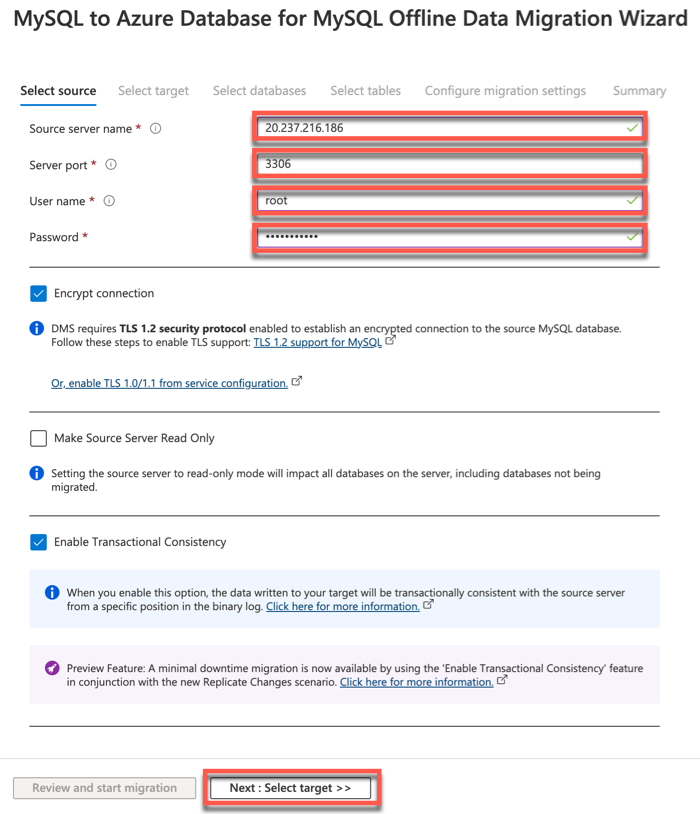
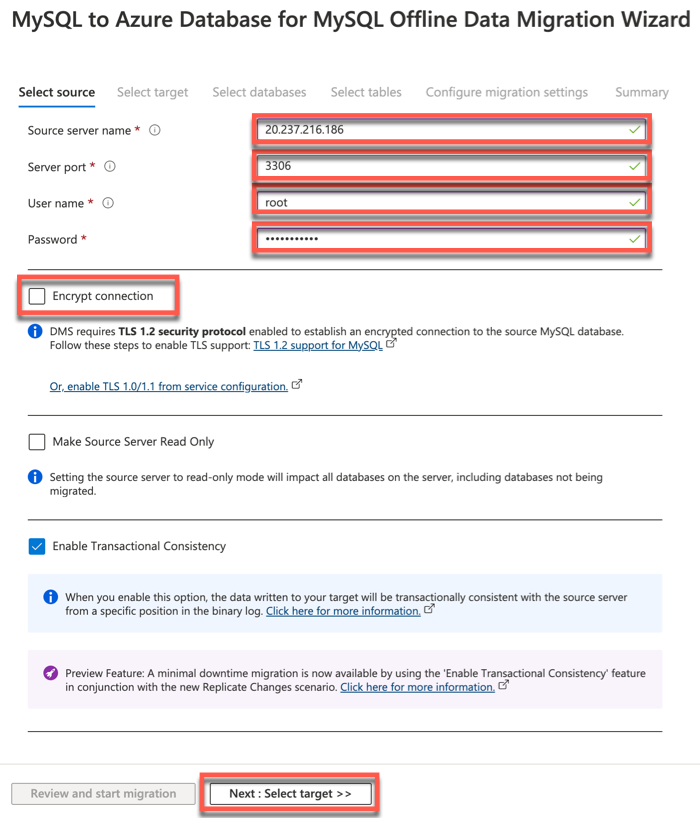
lab updates

diff --git a/Hands-on lab/HOL step-by-step - Migrate and modernize case for Linux and OSS DB to Azure.md b/Hands-on lab/HOL step-by-step - Migrate and modernize case for Linux and OSS DB to Azure.md
@@ -32,13 +32,13 @@ Microsoft and the trademarks listed at <https://www.microsoft.com/en-us/legal/in
     - [Solution architecture](#solution-architecture)
     - [Requirements](#requirements)
     - [Before the hands-on lab](#before-the-hands-on-lab)
-    - [Exercise 1: Create VM to migrate web application](#exercise-1-create-vm-to-migrate-web-application)
-        - [Task 1: Create Red Hat Enterprise Linux VM for application hosting](#task-1-create-red-hat-enterprise-linux-vm-for-application-hosting)
-        - [Task 2: Install web application](#task-2-install-web-application)
-    - [Exercise 2: MySQL database migration](#exercise-2-exercise-name)
+    - [Exercise 1: MySQL database migration](#exercise-1-mysql-database-migration)
         - [Task 1: Create Azure Database for MySQL](#task-1-create-azure-database-for-mysql)
         - [Task 2: Create Azure Database Migration Service](#task-2-create-azure-database-migration-service)
         - [Task 3: Migration MySQL database to Azure](#task-3-migration-mysql-database-to-azure)
+    - [Exercise 2: Create VM to migrate web application](#exercise-2-create-vm-to-migrate-web-application)
+        - [Task 1: Create Red Hat Enterprise Linux VM for application hosting](#task-1-create-red-hat-enterprise-linux-vm-for-application-hosting)
+        - [Task 2: Install web application](#task-2-install-web-application)
     - [After the hands-on lab](#after-the-hands-on-lab)
         - [Task 1: Delete resource group to remove the lab environment](#task-1-delete-resource-group-to-remove-the-lab-environment)
 
@@ -81,123 +81,7 @@ These are the components of the preferred solution diagram:
 
 Refer to the Before the hands-on lab setup guide manual before continuing to the lab exercises.
 
-To author: remove this section if you do not require environment setup instructions.
-
-## Exercise 1: Create VM to migrate web application
-
-Duration: 45 minutes
-
-In this exercise, you will create a new Red Hat Enterprise Linux virtual machine (VM) that will be the destination for migrating the on-premises Web Application to Azure, and then you will use Azure Bastion to connect to the VM over SSH. Azure Bastion will allow secure remote connections to the VM for Administrators.
-
-### Task 1: Create Red Hat Enterprise Linux VM for application hosting
-
-In this task, you will create a new Red Hat Enterprise Linux virtual machine (VM) that will be the destination for migrating the on-premises Web Application to Azure.
-
-1. Sign in to the [Azure Portal](https://portal.azure.com). Ensure that you're using a subscription associated with the same resources you created during the Before the hands-on lab set up.
-
-2. On the **Home** page within the Azure Portal, towards the top, select **Create a resource**.
-
-    ![Create a resource on Azure Portal Home page.](images/2022-11-20-21-08-40.png "Create a resource on Azure Portal Home page.")
-
-3. Within the **Search services and marketplace** field, type **Red Hat Enterprise Linux** and press Enter to search the marketplace, then select **Red Hat Enterprise Linux**.
-
-    ![Red Hat Enterprise Linux is highlighted](images/2022-11-20-21-10-49.png "Red Hat Enterprise Linux is highlighted")
-
-4. Choose **Red Hat Enterprise Linux 9.0 (LVM)** then select **Create**.
-
-5. On the **Create a virtual machine** pane, set the following values to configure the new virtual machine:
-
-    - **Resource group**: Select the resource group that you created for this lab. Such as `terrafirm-rg`.
-    - **Virtual machine name**: Give the VM a unique name, such as `terrafirm-webapp-vm`.
-    - **Region**: Select the Azure Region that was used to create the resource group.
-    - **Image**: Verify the image is set to **Red Hat Enterprise Linux 9.0 (LVM)**.
-
-    ![Create a virtual machine with fields set.](images/2022-11-20-21-15-15.png "Create a virtual machine with fields set.")
-
-6. Set the **Size** field by selecting the **Standard_D4s_v5** virtual machine size.
-
-    ![VM size is set.](images/2022-11-20-21-20-19.png "VM size is set.")
-
-7. Set the **Authentication type** to **Password**, then enter a **Username** and **Password** for the VM administrator account.
-
-    ![Administrator account credentials set.](images/2022-11-20-21-21-51.png "Administrator account credentials set.")
-
-    > **Note**: Be sure to save the Username and Password for the VM, so it can be used later. A recommendation for an easy to remember Username is `demouser` and Password is `demo!pass123`.
-
-8. Select **Next** until you are navigated to the **Networking** tab fo the **Create a virtual machine** page.
-
-    ![Networking tab is selected.](images/2022-11-20-21-26-00.png "Networking tab is selected.")
-
-9. Provision the VM in the Spoke VNet in Azure by selecting the following values under the **Network interface** section:
-
-    - **Virtual network**: Select the Spoke VNet that was created for this lab. Its name will be similar to `terrafirm-spoke-vnet`
-    - **Subnet**: `default (10.2.0.0/24)`
-
-    ![Network interface fields set.](images/2022-11-20-21-28-50.png "Network interface fields set.")
-
-10. For the **Public IP**, ensure that a **new** Public IP is selected so a Public IP is provisioned to enable Internet access to the VM. This will be used to access the Web Application over HTTP.
-
-    ![Public IP selected](images/2022-11-20-21-30-21.png "Public IP selected")
-
-11. For the **Select inbound ports**, select the **HTTP (80)** and **SSH (2)** ports to allow both HTTP and SSH traffic through the Network Security Group firewall to reach the VM.
-
-    ![Inbound ports are set](images/2022-11-20-21-32-39.png "Inbound ports are set")
-
-12. Select **Review + create** to review the virtual machine settings.
-
-    ![Review + create button](images/2022-11-20-21-36-24.png "Review + create button")
-
-13. Select **Create** to begin provisioning the virtual machine once the **Validation passed** message is shown.
-
-    ![Validation passed and create button](images/2022-11-20-21-38-48.png "Validation passed and create button")
-
-### Task 2: Install web application
-
-In this task, you will use Azure Bastion to connect to the VM over SSH and install the web application.
-
-1. In the Azure Portal, navigate to the newly created **Virtual Machine**.
-
-    ![Virtual machine pane is open](images/2022-11-20-21-42-39.png.png "Virtual machine pane is open")
-
-2. On the **Overview** pane of the **Virtual machine** blade, locate and copy the **Public IP Address** for the VM. This will be used to connect to the VM using SSH.
-
-    ![VM Public IP Address](images/2022-11-21-16-45-28.png "VM Public IP Address")
-
-3. At the top of the Azure Portal, select the **Cloud Shell** icon to open up the Azure Cloud Shell.
-
-    ![Cloud Shell icon](images/2022-11-21-16-46-35.png "Cloud Shell icon")
-
-4. Within the **Cloud Shell**, enter the following `ssh` command to connect to the VM using SSH. Be sure to replace the `<ip-address>` placeholder with the **Public IP Address** that was just copied for the VM.
-
-    ```bash
-    ssh demouser@<ip-address>
-    ```
-
-5. When prompted, enter `y` and press Enter to access the certificate warning for this VM. Then continue by entering the **Password** for the VM.
-
-    ![Cloud Shell with SSH certificate and password prompt](images/2022-11-21-16-49-59.png "Cloud Shell with SSH certificate and password prompt")
-
-    > **Note**: If you followed the previous suggestions for the VM username and password, then the password for the VM will be `demo!pass123`. Otherwise, enter the password you chose when provisioning the VM.
-
-6. Once connected to the VM via SSH, execute the following commands that will download an install script and run it that will install the web application on the VM:
-
-    ```bash
-    wget https://raw.githubusercontent.com/solliancenet/MCW-Migrate-Linux-OSS-DB-to-Azure/lab/Hands-on%20lab/resources/deployment/install-phpipam.sh
-    chmod +x install-phpipam.sh
-    sudo ./install-phpipam.sh
-    ```
-
-7. Once the script completes, open a new browser tab, and navigate to the following URL to test that the web application is installed. Be sure to use `http://` since the web application is not currently configured for TLS/SSL.
-
-    ```
-    http://<ip-address>
-    ```
-
-8. The web application should currently look similar to the following screenshot. This will indicate the application is installed, but not yet configured for a database. The database still needs to be migrated for the application.
-
-    ![web application in web browser](images/2022-11-21-16-54-27.png "web application in web browser")
-
-## Exercise 2: MySQL database migration
+## Exercise 1: MySQL database migration
 
 Duration: 60 minutes
 
@@ -252,15 +136,19 @@ In this exercise, you will migrate the on-premises MySQL database for the web ap
 
     ![Review + create screen with Create button](images/2022-11-20-22-46-07.png "Review + create screen with Create button")
 
-12. Once provisioning has completed navigate to the **Azure Database for MySQL** resource that was just created, then select **Databases** under **Settings** on the side of the pane.
+12. Once provisioning has completed navigate to the **Azure Database for MySQL** resource that was just created, copy and save the **Server name** for use later.
+
+    ![Azure Database for MySQL server name](images/2022-11-21-23-57-40.png "Azure Database for MySQL server name")
+
+13. Select **Databases** under **Settings** on the side of the pane.
 
     ![Databases link](images/2022-11-21-21-26-19.png "Databases link")
 
-13. Select **+ Add** to create a new database.
+14. Select **+ Add** to create a new database.
 
     ![Add database button](images/2022-11-21-21-27-38.png "Add database button")
 
-14. On the **Create Database** pane, enter `phpipam` in the **Name** field, then select **Save**. This will create a new MySQL database that will be the target for the database migration.
+15. On the **Create Database** pane, enter `phpipam` in the **Name** field, then select **Save**. This will create a new MySQL database that will be the target for the database migration.
 
     ![Create database pane with values entered](images/2022-11-21-21-28-24.png "Create database pane with values entered")
 
@@ -324,7 +212,7 @@ In this exercise, you will migrate the on-premises MySQL database for the web ap
     - **Target server type**: `Azure Database for MySQL (Single or Flexible)`
     - **Migration activity type**: `Offline data migration`
 
-    ![](images/2022-11-21-21-33-36.png "")
+    ![New migration project](images/2022-11-21-21-33-36.png "New migration project")
 
 3. Select **Create and run activity**.
 
@@ -336,10 +224,194 @@ In this exercise, you will migrate the on-premises MySQL database for the web ap
     - **Server port**: `3306`
     - **User name**: `root`
     - **Password**: `demopass123`
+    - **Encrypt connection**: Uncheck this box.
 
     ![Offline Data Migration Wizard select source tab with values entered](images/2022-11-21-21-41-26.png "Offline Data Migration Wizard select source tab with values entered")
 
-[TODO]
+5. On the **Select target** tab, enter the following values to select the **Azure Database for MySQL** service that was previously provisioned.
+
+    - **Location**: The Azure Region that's used for this lab.
+    - **Resource group**: The Resource Group for this lab, named similar to `terrafirm-rg`.
+    - **Azure Database for MySQL**: The Azure Database for MySQL service provisioned previously that is named similar to `terrafirm-mysql-db`.
+    - **User name**: `mysqladmin`
+    - **Password**: `demo!pass123`
+
+    > **Note**: If a different **User name** and **Password** were configured when provisioning the **Azure Database for MySQL** service, then use those credentials instead.
+
+    ![Select target tab with values entered](images/2022-11-21-23-37-12.png "Select target tab with values entered")
+
+6. On the **Select database** tab, ensure the `phpipam` database is selected for both the **Source Database** and **Target Database**, then select **Next: Select tables >>**.
+
+    ![phpipam source and target database is selected](images/2022-11-21-23-40-24.png "phpipam source and target database is selected")
+
+7. On the **Select tables** tab, expand the `phpipam` table, and make sure all tables are selected, then select **Review and start migration**.
+
+    ![All tables selected](images/2022-11-21-23-43-09.png "All tables selected")
+
+8. On the **Summary** tab, enter `phpipam` into the **Activity name** field, then select **Start migration**.
+
+    ![Summary tab](images/2022-11-21-23-44-56.png "Summary tab")
+
+9. A migration details pane will now display, showing the **Status** as **Pending** while the migration is running.
+
+    ![Migration pending](images/2022-11-21-23-46-20.png "Migration pending")
+
+10. After a minute, select **Refresh** to check if the migration has completed. Once complete, the **Status** will show as **Completed** and the **Migration details** will display the total number of tables that have been migrated.
+
+    ![Migration completed](images/2022-11-21-23-49-09.png "Migration completed")
+
+## Exercise 2: Create VM to migrate web application
+
+Duration: 45 minutes
+
+In this exercise, you will create a new Red Hat Enterprise Linux virtual machine (VM) that will be the destination for migrating the on-premises Web Application to Azure, and then you will use SSH to connect to the VM remotely.
+
+### Task 1: Create Red Hat Enterprise Linux VM for application hosting
+
+In this task, you will create a new Red Hat Enterprise Linux virtual machine (VM) that will be the destination for migrating the on-premises Web Application to Azure.
+
+1. Sign in to the [Azure Portal](https://portal.azure.com). Ensure that you're using a subscription associated with the same resources you created during the Before the hands-on lab set up.
+
+2. On the **Home** page within the Azure Portal, towards the top, select **Create a resource**.
+
+    ![Create a resource on Azure Portal Home page.](images/2022-11-20-21-08-40.png "Create a resource on Azure Portal Home page.")
+
+3. Within the **Search services and marketplace** field, type **Red Hat Enterprise Linux** and press Enter to search the marketplace, then select **Red Hat Enterprise Linux**.
+
+    ![Red Hat Enterprise Linux is highlighted](images/2022-11-20-21-10-49.png "Red Hat Enterprise Linux is highlighted")
+
+4. Choose **Red Hat Enterprise Linux 9.0 (LVM)** then select **Create**.
+
+5. On the **Create a virtual machine** pane, set the following values to configure the new virtual machine:
+
+    - **Resource group**: Select the resource group that you created for this lab. Such as `terrafirm-rg`.
+    - **Virtual machine name**: Give the VM a unique name, such as `terrafirm-webapp-vm`.
+    - **Region**: Select the Azure Region that was used to create the resource group.
+    - **Image**: Verify the image is set to `Red Hat Enterprise Linux 9.0 (LVM)`.
+
+    ![Create a virtual machine with fields set.](images/2022-11-20-21-15-15.png "Create a virtual machine with fields set.")
+
+6. Set the **Size** field by selecting the **Standard_D4s_v5** virtual machine size.
+
+    ![VM size is set.](images/2022-11-20-21-20-19.png "VM size is set.")
+
+7. Set the **Authentication type** to **Password**, then enter a **Username** and **Password** for the VM administrator account.
+
+    > **Note**: Be sure to save the Username and Password for the VM, so it can be used later. A recommendation for an easy to remember Username is `demouser` and Password is `demo!pass123`.
+
+    ![Administrator account credentials set.](images/2022-11-20-21-21-51.png "Administrator account credentials set.")
+
+    > **Note**: Password authentication for the Linux VM is being used to simplify the lab. In a production environment, the best practice is to use SSH public key authentication.
+
+8. Select **Next** until you are navigated to the **Networking** tab fo the **Create a virtual machine** page.
+
+    ![Networking tab is selected.](images/2022-11-20-21-26-00.png "Networking tab is selected.")
+
+9. Provision the VM in the Spoke VNet in Azure by selecting the following values under the **Network interface** section:
+
+    - **Virtual network**: Select the Spoke VNet that was created for this lab. Its name will be similar to `terrafirm-spoke-vnet`
+    - **Subnet**: `default (10.2.0.0/24)`
+
+    ![Network interface fields set.](images/2022-11-20-21-28-50.png "Network interface fields set.")
+
+10. For the **Public IP**, ensure that a **new** Public IP is selected so a Public IP is provisioned to enable Internet access to the VM. This will be used to access the Web Application over HTTP.
+
+    ![Public IP selected](images/2022-11-20-21-30-21.png "Public IP selected")
+
+11. For the **Select inbound ports**, select the **HTTP (80)** and **SSH (2)** ports to allow both HTTP and SSH traffic through the Network Security Group firewall to reach the VM.
+
+    ![Inbound ports are set](images/2022-11-20-21-32-39.png "Inbound ports are set")
+
+12. Select **Review + create** to review the virtual machine settings.
+
+    ![Review + create button](images/2022-11-20-21-36-24.png "Review + create button")
+
+13. Select **Create** to begin provisioning the virtual machine once the **Validation passed** message is shown.
+
+    ![Validation passed and create button](images/2022-11-20-21-38-48.png "Validation passed and create button")
+
+### Task 2: Install web application
+
+In this task, you will connect to the VM over SSH to install and configure the web application.
+
+1. In the Azure Portal, navigate to the newly created **Virtual Machine**.
+
+    ![Virtual machine pane is open](images/2022-11-20-21-42-39.png.png "Virtual machine pane is open")
+
+2. On the **Overview** pane of the **Virtual machine** blade, locate and copy the **Public IP Address** for the VM. This will be used to connect to the VM using SSH.
+
+    ![VM Public IP Address](images/2022-11-21-16-45-28.png "VM Public IP Address")
+
+3. At the top of the Azure Portal, select the **Cloud Shell** icon to open up the Azure Cloud Shell.
+
+    ![Cloud Shell icon](images/2022-11-21-16-46-35.png "Cloud Shell icon")
+
+4. Within the **Cloud Shell**, enter the following `ssh` command to connect to the VM using SSH. Be sure to replace the `<ip-address>` placeholder with the **Public IP Address** that was just copied for the VM.
+
+    ```bash
+    ssh demouser@<ip-address>
+    ```
+
+5. When prompted, enter `y` and press Enter to access the certificate warning for this VM. Then continue by entering the **Password** for the VM.
+
+    ![Cloud Shell with SSH certificate and password prompt](images/2022-11-21-16-49-59.png "Cloud Shell with SSH certificate and password prompt")
+
+    > **Note**: If you followed the previous suggestions for the VM username and password, then the password for the VM will be `demo!pass123`. Otherwise, enter the password you chose when provisioning the VM.
+
+6. Once connected to the VM via SSH, execute the following commands that will download an install script and run it that will install the web application on the VM:
+
+    ```bash
+    wget https://raw.githubusercontent.com/solliancenet/MCW-Migrate-Linux-OSS-DB-to-Azure/lab/Hands-on%20lab/resources/deployment/install-phpipam.sh
+    chmod +x install-phpipam.sh
+    sudo ./install-phpipam.sh
+    ```
+
+7. Execute the following command to open the `config.php` file for the web application in a text editor. The application needs to be configured to connect to the **Azure Database for MySQL** database that was previously migrated.
+
+    ```bash
+    sudo nano /var/www/html/config.php
+    ```
+
+    ![config.php file open in editor](images/2022-11-22-00-06-57.png "config.php file open in editor")
+
+8. Within the `config.php` file, set the following values for the **database connection details** section to configure it for Azure Database for MySQL.
+
+    - **host**: Enter the **Server name** for the **Azure Database for MySQL** instance that was previously copied.
+    - **user**: Enter the Admin user name for the **Azure Database for MySQL** instance.
+    - **pass**: Enter the Admin password for the **Azure Database for MySQL** instance.
+
+    ![config.php file with database connection details](images/2022-11-22-00-09-35.png "config.php file with database connection details")
+
+    > **Note**: If you followed the suggestions on the lab, then the Azure Database for MySQL administrator credentials should be the following:
+    > - **User name**: `mysqladmin`
+    > - **Password**: `demo!pass123`
+
+9. To save the file, press `^X` (ctrl-X) to exit the editor, press `Y` to save the modified buffer, then press **Enter** to write the changes to the file.
+
+10. In the Azure Portal, navigate to the **Azure Database for MySQL** instance, then select the **Networking** link under **Settings**. The firewall must be configured to allow the web application to connect to the database.
+
+    ![Azure Database for MySQL blade](images/2022-11-22-00-21-05.png "Azure Database for MySQL blade")
+
+11. On the **Networking** pane, add a new **Firewall rule** with the following values, then select **Save**.
+
+    - **Firewall rule name**: `webapp-vm`
+    - **Start IP address**: Enter the **Public IP Address** for the `terrafirm-webapp-vm` virtual machine.
+    - **End IP address**: Enter the **Public IP Address** for the `terrafirm-webapp-vm` virtual machine.
+
+    ![Networking pane](images/2022-11-22-00-23-09.png "Networking pane")
+
+
+7. Open a new browser tab, and navigate to the following URL to test that the web application is installed. Be sure to use `http://` since the web application is not currently configured for TLS/SSL.
+
+    ```
+    http://<ip-address>
+    ```
+
+8. The web application will look similar to the following screenshot.
+
+    ![web application in web browser](images/2022-11-21-16-54-27.png "web application in web browser")
+
+    > **Note**: The default username is `Admin` and password is `ipamadmin`. The first time you login to the web application, it will prompt to change the Admin password. A recommended password to change it to is `demo!pass123` so it's easily remembered for the lab.
 
 ## After the hands-on lab
 

diff --git a/Hands-on lab/resources/deployment/readme.md b/Hands-on lab/resources/deployment/readme.md
@@ -4,7 +4,7 @@ This directory contains the Before Hands-on Lab setup deployment scripts for cre
 
 Click the button below to deploy the existing Terra Firm resources for the HOL to your Azure Subscription:
 
-[![Deploy To Azure](https://raw.githubusercontent.com/solliancenet/MCW-Migrate-Linux-OSS-DB-to-Azure/lab/Hands-on%20lab/images/deploytoazure.svg)](https://portal.azure.com/#create/Microsoft.Template/uri/https%3A%2F%2Fraw.githubusercontent.com%2FSolliancenet%2FMCW-Migrate-Linux-OSS-DB-to-Azure/%2Flab%2FHands-on%20lab%2Fresources%2Fdeployment%2Fdeploy.json)
+[![Deploy To Azure](../../images/deploytoazure.svg)](https://portal.azure.com/#create/Microsoft.Template/uri/https%3A%2F%2Fraw.githubusercontent.com%2Fsolliancenet%2FMCW-Migrate-Linux-OSS-DB-to-Azure%2Flab%2FHands-on%20lab%2Fresources%2Fdeployment%2Fdeploy.json)
 
 ## Notes
 

diff --git a/Hands-on lab/Before the HOL - Migrate and modernize case for Linux and OSS DB to Azure.md b/Hands-on lab/Before the HOL - Migrate and modernize case for Linux and OSS DB to Azure.md
@@ -74,7 +74,7 @@ In this task, you will leverage a custom Azure Resource Manager (ARM) template t
 
 In this task, you will configure the web application hosted on the simulated on-premises virtual machine that was provisioned by the ARM Template deployment.
 
-1. In the **Azure Poral**, navigate to the **Resource Group** that you created for this lab, then select the **On-premises Workload VM** named similar to `terrafirm-onprem-workload-vm`.
+1. In the **Azure Portal**, navigate to the **Resource Group** that you created for this lab, then select the **On-premises Workload VM** named similar to `terrafirm-onprem-workload-vm`.
 
     ![Resource group with on-premises workload VM highlighted](images/2022-11-21-22-49-18.png "Resource group with on-premises workload VM highlighted")
 
